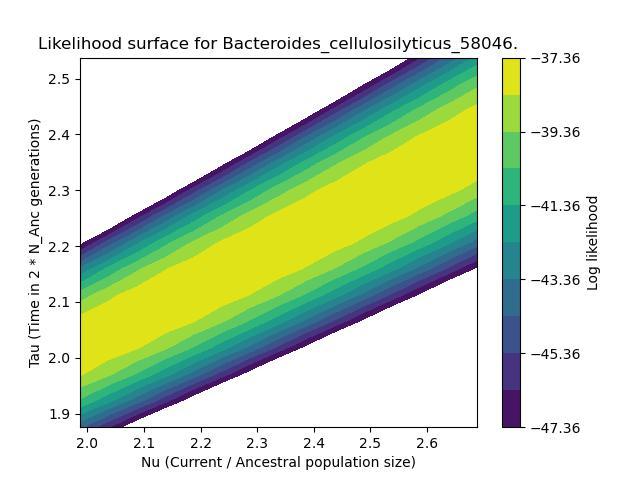
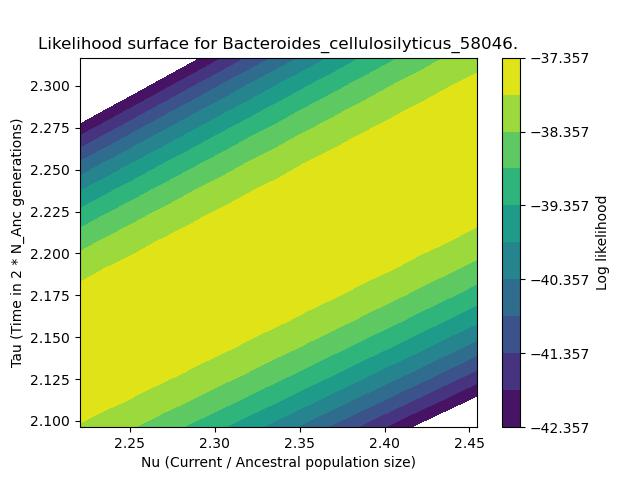
B. cell

diff --git a/Scripts/plot_likelihood.py b/Scripts/plot_likelihood.py
@@ -477,8 +477,8 @@ class PlotLikelihood():
                 # y_range = numpy.linspace(y * 0.95, y * 1.05, npts)
                 
                 # Oscillibacter species
-                x_range = numpy.linspace(x * 0.85, x * 1.15, npts)
-                y_range = numpy.linspace(y * 0.85, y * 1.15, npts)
+                x_range = numpy.linspace(x * 0.95, x * 1.05, npts)
+                y_range = numpy.linspace(y * 0.95, y * 1.05, npts)
 
                 X, Y = numpy.meshgrid(x_range, y_range)
 
@@ -497,11 +497,11 @@ class PlotLikelihood():
 
                 # fig = plt.figure()
                 fig, ax = plt.subplots()
-                z_min, z_max = max_likelihood - 10, max_likelihood
+                z_min, z_max = max_likelihood - 5, max_likelihood
                 # c = ax.pcolormesh(X, Y, Z, cmap='RdBu', vmin=z_min, vmax=z_max, label='Log likelihood')
                 ax.set_xlabel('Nu (Current / Ancestral population size)')
                 ax.set_ylabel('Tau (Time in 2 * N_Anc generations)')
-                levels = numpy.linspace(z_min, z_max, 11)
+                levels = numpy.linspace(z_min, z_max, num=11)
                 contourplot = ax.contourf(X, Y, Z, levels=levels)
                 # ticks = numpy.arange(z_min, z_max, 1.0)
                 cbar = fig.colorbar(contourplot, label='Log likelihood') # Add a colorbar to a plot
